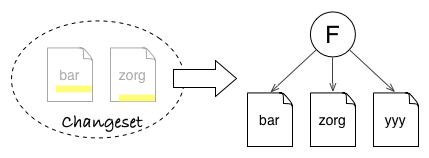
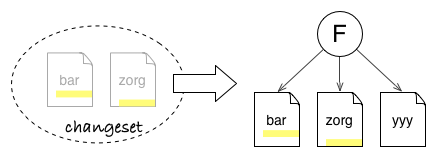
describe changeset conflict and update figures

diff --git a/git_in_10_minutes.md b/git_in_10_minutes.md
@@ -40,15 +40,15 @@ But more importantly, the history graph allows us to compute the difference betw
 
 When you create a commit B from commit A, you create a new snapshot. But you can also see it as an incremental evolution upon the previous commit. This contribution brought by the commit makes a group of indivisible changes, which is called a changeset.
 
-![Snapshot and changeset](changeset.png)
+![Snapshot and Changeset](changeset.png)
 *A snapshot stores the full state, independent of history. A changeset only records what has changed.*
 
 ### What Is in a Changeset? And What to Do With It?
 
-The interesting bit about changesets is that they can be used as blueprint to copy the changes brought by B elsewhere. This is possible because a changeset can be generated to contain just enough information about the transformation.
+The interesting bit about changesets is that they can be used as blueprint to copy the changes brought by B elsewhere. This is possible because a changeset contain just enough information about the transformation.
 
 ![Applying a Changeset](changeset_applied.png)
-*Changeset will only modify files bar and zorg from commit F. It does not care that foo file from B is absent from F or that there is a yyy file.*
+*Changeset will only modify files bar and zorg from commit F. It does not care that foo file from B is absent or that there is a yyy file.*
 
 Git, for example, see changes at the level of lines in text files. When you view a patch in Git (which is the textual representation of a changeset), you see something like that:
 
@@ -80,11 +80,15 @@ A patch file will register the following information:
 - which file is impacted by the change (`app/scripts/Results.js`)
 - where is the next change section in the file (`@@ -8,18 +8,20 @@`)
 - lines removed by the change, prefixed by **-**
-- lines added by the change, prefixed by **+** (changed lines appear as removed then added)
+- lines added by the change, prefixed by **+**
+- as a result, changed lines appear as removed (old version) then added (new version)
 - *unchanged* context lines before/after/between changed lines
 - and so on for all sections and all files in the changeset
 
 Git needs only to match the target files, line positions and textual context to make the changes described by the patch. In other words, it does not care about files from the snapshot which are untouched by changes. Even more, it does not care if other sections of the file have changed too. So it is easy for Git to copy changes from a commit on top of a different snapshot, provided context has not changed too much (otherwise, Git will detect and notify conflicts).
+
+![Conflict with Changeset](changeset_conflict.png)
+*Changeset can update bar file, even if there is already a change in another place. But it can not update zorg file automatically, as the local context for the patch has changed. It will let you resolve the conflict.*
 
 ### Changesets Anytime Anywhere
 
